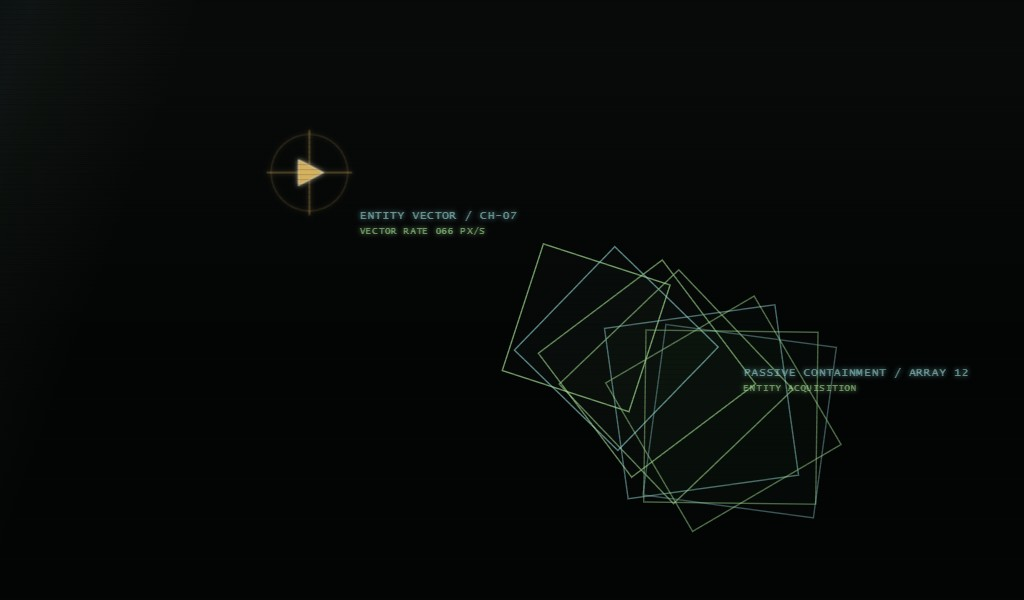
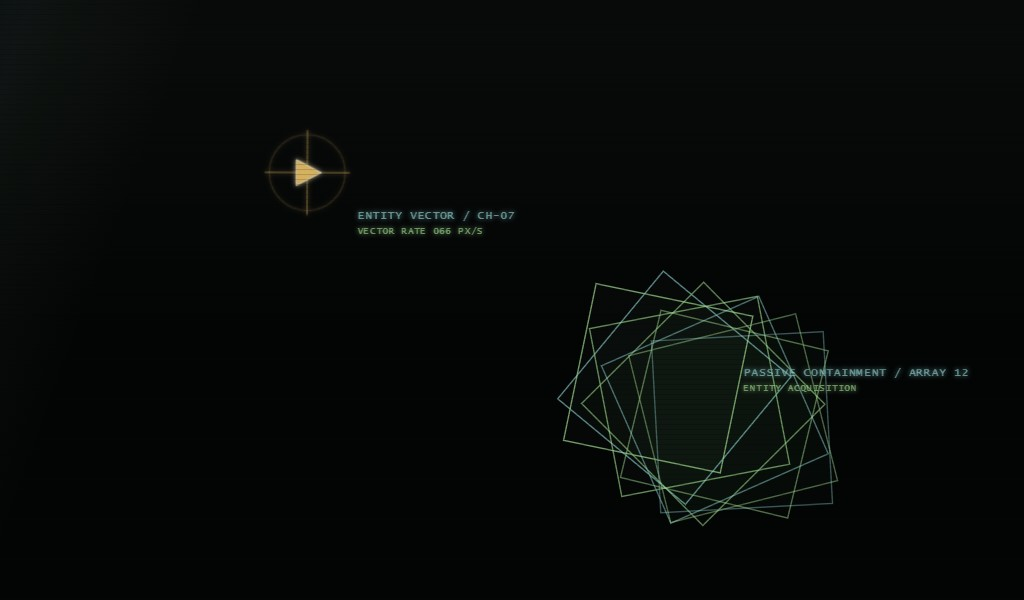
refine standby pursuit pacing

Changed region(s): [[0.5, 0.42, 0.8125, 0.87], [0.3438, 0.33, 0.5, 0.39], [0.2812, 0.24, 0.3125, 0.36]]

diff --git a/src/specter/ui/web_static/app.js b/src/specter/ui/web_static/app.js
@@ -1628,6 +1628,8 @@ function startScreensaverAnimation() {
   let respawnUntil = 0;
   let entityIndex = 0;
   let waypointIndex = 0;
+  let captureFrameAngles = [];
+  let captureTargetAngle = 0;
 
   const entityIds = ["07", "12", "19", "31", "42", "58", "73"];
   const waypoints = [
@@ -1698,18 +1700,18 @@ function startScreensaverAnimation() {
     targetState.y = clamp(targetState.y + targetState.vy * deltaSeconds, 68, 532);
 
     const initialChaseDistance = length(targetState.x - chaserState.x, targetState.y - chaserState.y);
-    const predictionSeconds = phase === "pursuit" ? clamp(initialChaseDistance / 260, 0.18, 1.15) : 0;
+    const predictionSeconds = phase === "pursuit" ? clamp(initialChaseDistance / 420, 0.1, 0.55) : 0;
     const pursuitX = targetState.x + targetState.vx * predictionSeconds;
     const pursuitY = targetState.y + targetState.vy * predictionSeconds;
     const chaseX = pursuitX - chaserState.x;
     const chaseY = pursuitY - chaserState.y;
     const pursuitDistance = length(chaseX, chaseY);
     const desiredChaserSpeed = phase === "pursuit"
-      ? clamp(142 + pursuitDistance * 0.5, 142, 318)
-      : clamp(pursuitDistance * 4.2, 0, 260);
+      ? clamp(92 + pursuitDistance * 0.2, 92, 178)
+      : clamp(pursuitDistance * 3.2, 0, 190);
     const desiredChaserVx = chaseX / Math.max(1, pursuitDistance) * desiredChaserSpeed;
     const desiredChaserVy = chaseY / Math.max(1, pursuitDistance) * desiredChaserSpeed;
-    const chaserBlend = Math.min(1, (phase === "pursuit" ? 4.2 : 6.8) * deltaSeconds);
+    const chaserBlend = Math.min(1, (phase === "pursuit" ? 2.4 : 5) * deltaSeconds);
     chaserState.vx += (desiredChaserVx - chaserState.vx) * chaserBlend;
     chaserState.vy += (desiredChaserVy - chaserState.vy) * chaserBlend;
     chaserState.x = clamp(chaserState.x + chaserState.vx * deltaSeconds, 58, 966);
@@ -1722,6 +1724,11 @@ function startScreensaverAnimation() {
     if (phase === "pursuit" && chaseDistance < 58) {
       phase = "capture";
       phaseStartedAt = now;
+      captureFrameAngles = frames.map((frame) => {
+        const rotation = /rotate\((-?[\d.]+)\)/.exec(frame.getAttribute("transform") || "");
+        return rotation ? Number(rotation[1]) : 0;
+      });
+      captureTargetAngle = captureFrameAngles[0] || 0;
     } else if (phase === "capture" && phaseSeconds >= 1.05) {
       phase = "destroy";
       phaseStartedAt = now;
@@ -1744,6 +1751,7 @@ function startScreensaverAnimation() {
       phaseStartedAt = now;
       respawnUntil = now + 560;
       lockAmount = 0;
+      captureFrameAngles = [];
     }
 
     history.unshift({ x: chaserState.x, y: chaserState.y });
@@ -1754,7 +1762,7 @@ function startScreensaverAnimation() {
       : phase === "capture"
         ? captureProgress * captureProgress * (3 - 2 * captureProgress)
         : lockAmount * 0.28;
-    const synchronizedAngle = seconds * 112;
+    const synchronizedAngle = seconds * 18;
     const frameGeometry = frames.map((frame, index) => {
       const trailPoint = sampleHistory(index * delayStep);
       const point = {
@@ -1764,11 +1772,16 @@ function startScreensaverAnimation() {
       const distanceToTarget = length(targetState.x - point.x, targetState.y - point.y);
       const freeSize = clamp(38 + distanceToTarget * 0.3, 38, 172);
       const size = freeSize + (46 - freeSize) * synchronization;
-      const spinDirection = index % 2 === 0 ? 1 : -1;
-      const spinRate = 28 + index * 8.5 + distanceToTarget * 0.11 + length(targetState.vx, targetState.vy) * 0.08;
-      const freeAngle = spinDirection * seconds * spinRate + index * 31
-        + Math.sin(seconds * (0.82 + index * 0.075) - index * 0.42) * 38;
-      const angle = freeAngle + (synchronizedAngle - freeAngle) * synchronization;
+      const spinDirection = index % 3 === 0 ? -1 : 1;
+      const spinRate = 7 + index * 2.1 + distanceToTarget * 0.014 + length(targetState.vx, targetState.vy) * 0.018;
+      const freeAngle = spinDirection * seconds * spinRate + index * 24
+        + Math.sin(seconds * (0.42 + index * 0.025) - index * 0.38) * 10;
+      const synchronizedTurn = ((synchronizedAngle - freeAngle + 135) % 90) - 45;
+      const captureStartAngle = captureFrameAngles[index] ?? freeAngle;
+      const captureTurn = ((captureTargetAngle - captureStartAngle + 135) % 90) - 45;
+      const angle = phase === "capture" || phase === "destroy"
+        ? captureStartAngle + captureTurn * synchronization
+        : freeAngle + synchronizedTurn * synchronization;
       frame.setAttribute("transform", `translate(${point.x.toFixed(2)} ${point.y.toFixed(2)}) rotate(${angle.toFixed(2)})`);
       frame.setAttribute("x", (-size / 2).toFixed(2));
       frame.setAttribute("y", (-size / 2).toFixed(2));

diff --git a/tests/test_web.py b/tests/test_web.py
@@ -28,7 +28,10 @@ class WebUiTests(unittest.TestCase):
         self.assertIn("targetSpeed * 0.16", screensaver_source)
         self.assertIn("ENTITY DISSIPATION", screensaver_source)
         self.assertIn("entityIndex = (entityIndex + 1)", screensaver_source)
-        self.assertIn("clamp(142 + pursuitDistance * 0.5", screensaver_source)
+        self.assertIn("clamp(92 + pursuitDistance * 0.2", screensaver_source)
+        self.assertIn("distanceToTarget * 0.014", screensaver_source)
+        self.assertIn("const synchronizedTurn = ((synchronizedAngle - freeAngle + 135) % 90) - 45", screensaver_source)
+        self.assertIn("captureStartAngle + captureTurn * synchronization", screensaver_source)
         self.assertNotIn('class="tunnel-rails"', screensaver_source)
         self.assertNotIn('class="containment-grid"', screensaver_source)
         self.assertNotIn('class="screensaver-readout"', screensaver_source)
